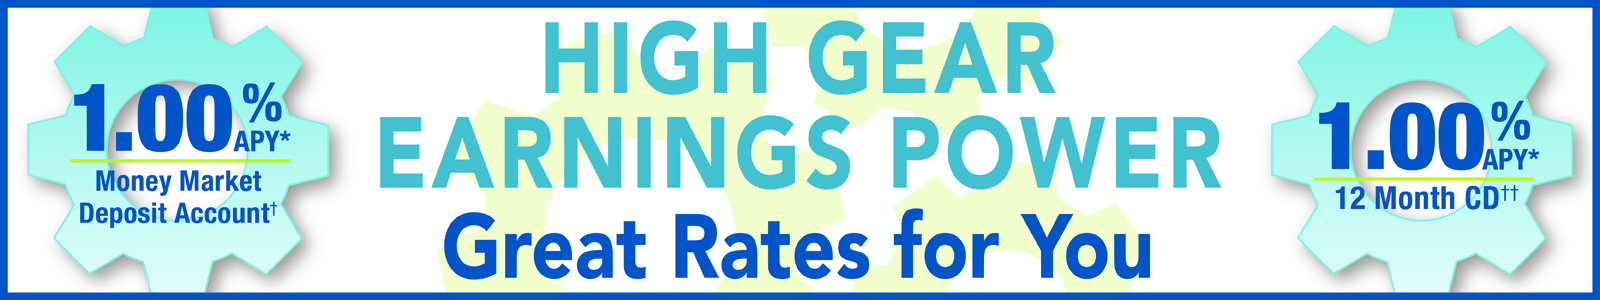
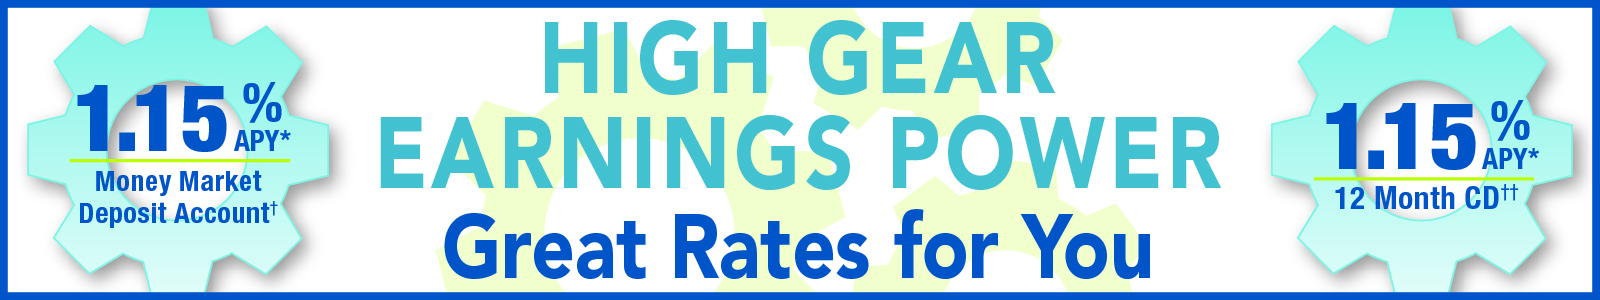
changes to MM CD rates and graphics

diff --git a/savings.html b/savings.html
@@ -138,7 +138,7 @@
               </div>
             </div><!-- row -->
             <div class="row spacer">
-              <p class="small para-margin"><sup>*</sup>Annual Percentage Yield (APY) <sup>†</sup>Money Market Deposit account: Promotional rate of 1.00% APY on all tiers for new accounts effective as of 9/12/16 and guaranteed for the first 210 days after account opening. Offer limited to minimum deposit of $100.00 and a maximum of $250,000.00 of new money not currently on deposit with CIBM Bank. After 210 Day introductory period, interest rate on your account is subject to change at any time. As of 9/1/16 Personal Money Market balances of $0.00-$9,999.99 (.08% APY); $10,000.00-$24,999.99 (.12% APY); $25,000.00-$49,999.99 (.16% APY); $50,000.00-$99,999.99 (.18% APY); $100,000.00 and above (.20% APY). Monthly fee $2.00 per debit if $1,000.00 minimum balance not maintained. As of 9/1/16 Personal Index Money Market balances of $0.00 - $24,999.99 (.10% APY); $25,000.00 - $99,999.99 (.20% APY); $100,000.00 and above (.23% APY). Monthly Fee $15.00 service charge if $25,000.00 minimum balance not maintained or maintain a $2,500.00 minimum balance in a checking or NOW account. Fees may reduce earnings. Accounts closed within 6 months of opening date subject to a $25.00 closing fee.  <sup>††</sup>12 Month Certificate of Deposit & IRA: Promotional rate of 1.00% (APY) effective as of 9/12/16 and guaranteed for the term of the account. Offer limited to minimum opening deposit of $2,500.00 and a maximum of $250,000.00 of new money not currently on deposit with CIBM Bank. Withdrawals made prior to maturity may be subject to an early withdrawal penalty. Offer not available in combination with any other offer.</p>
+              <p class="small para-margin"><sup>*</sup>Annual Percentage Yield (APY) <sup>†</sup>Money Market Deposit account: Promotional rate of 1.15% APY on all tiers for new accounts effective as of 02/21/17 and guaranteed for the first 182 days after account opening.  Promotional rate offered on $10,000.00 or more of new money not currently on deposit with CIBM Bank. Minimum opening deposit of $100.00 and a maximum of $250,000.00. After 182 Day introductory period, interest rate on your account is subject to change at any time. As of 02/09/17 Personal Money Market balances of $0.00-$9,999.99 (.08% APY); $10,000.00-$24,999.99 (.12% APY); $25,000.00-$49,999.99 (.16% APY); $50,000.00-$99,999.99 (.18% APY); $100,000.00 and above (.20% APY). Monthly fee $2.00 per debit if $1,000.00 minimum balance not maintained. As of 02/09/17 Personal Index Money Market balances of $0.00 - $24,999.99 (.10% APY); $25,000.00 - $99,999.99 (.20% APY); $100,000.00 and above (.23% APY). Monthly Fee $15.00 service charge if $25,000.00 minimum balance not maintained or maintain a $2,500.00 minimum balance in a checking or NOW account. Fees may reduce earnings. Accounts closed within 6 months of opening date subject to a $25.00 closing fee. <sup>††</sup>12 Month Certificate of Deposit & IRA: Promotional rate of 1.15% (APY) effective as of 02/21/17 and guaranteed for the term of the account. Offer limited to $10,000.00 or more of new money not currently on deposit with CIBM Bank. Minimum opening deposit of $2,500.00 and a maximum of $250,000.00. Withdrawals made prior to maturity may be subject to an early withdrawal penalty. Offer not available in combination with any other offer.</p>
             </div><!-- row -->
             <div class="row spacer">
               <div class="col-md-6">
